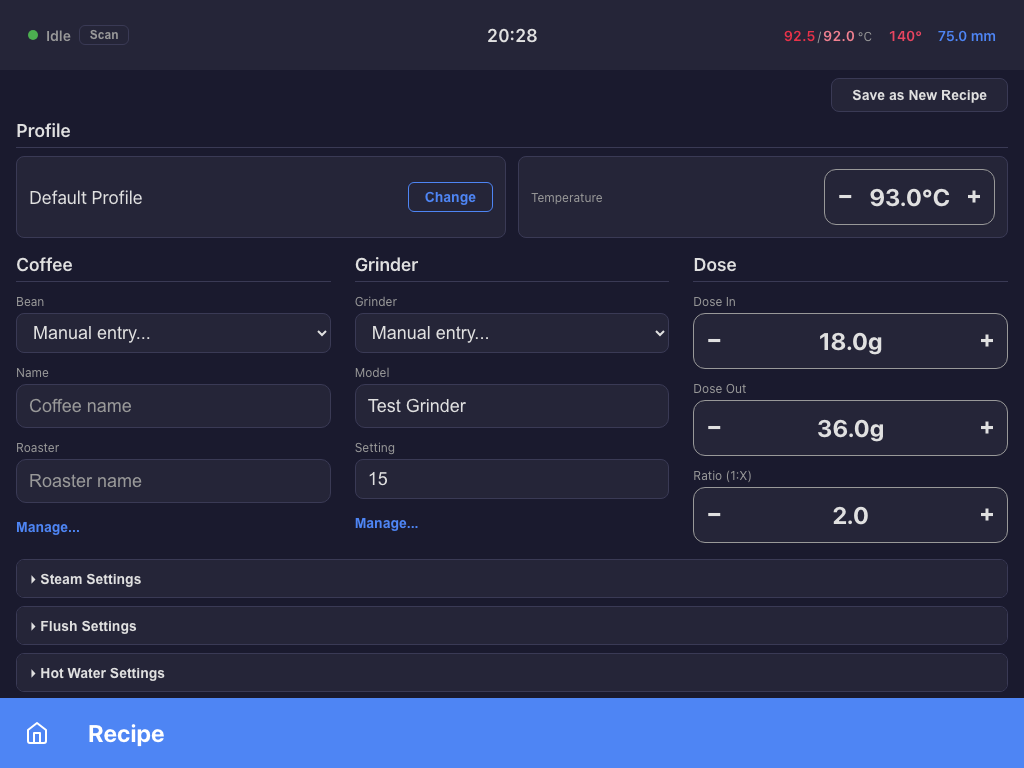
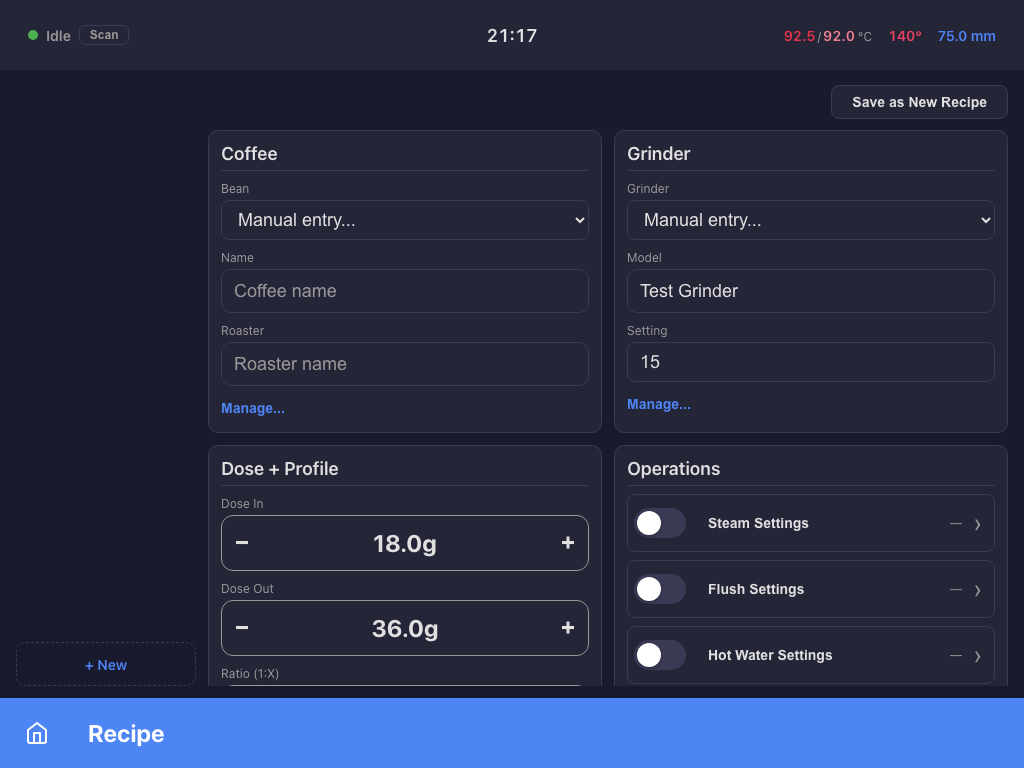
docs(readme): recipe editor landscape redesign
Update the Recipe Editor section and screenshot for the new layout —
left recipe rail + four-quadrant editor, operations editing moved into
per-operation popups. Also corrects a stale "Settings → Preferences"
reference to "Settings → Brewing".

diff --git a/README.md b/README.md
@@ -18,17 +18,17 @@ The home screen shows real-time machine data and quick-access operation buttons.
 
 ### Recipe Editor
 
-Create and manage complete brewing recipes — profile, beans, grinder, dose, and operation settings in one place.
+Create and manage complete brewing recipes — profile, beans, grinder, dose, and operation settings — laid out for landscape tablets: a recipe rail on the left, a four-quadrant editor (Coffee, Grinder, Dose + Profile, Operations) on the right.
 
 ![Recipe Editor](docs/screenshots/recipe-editor.png)
 
 - Set profile, coffee, grinder, dose in/out, and ratio
-- Configure steam, flush, and hot water settings per recipe
-- Save as named recipes for quick access from the home screen
+- Steam, flush, and hot water each toggle on/off from the operations list and open in a focused popup for editing
+- Recipes live in a vertical rail — tap to select, tap the pencil (or double-tap) to rename, **+ New** to create one from the current state
 - Field edits apply live to the running workflow (300 ms debounce); saved recipes only change when you explicitly tap **Save** or **Save as New Recipe**
-- A small dot on the selected recipe pill marks any divergence between the live workflow and the saved recipe
+- A small dot on the selected recipe marks any divergence between the live workflow and the saved recipe
 - From the home screen: tap a recipe to load it, double-tap to open the editor — the Espresso button is the only way to start a shot
-- Optional **power-user fields** — Settings → Preferences toggles "Show grinder RPM" and "Show basket data" surface RPM and basket size/type fields in the recipe editor and the shot review page. Per-grinder RPM range (Settings → Grinders) clamps the RPM input.
+- Optional **power-user fields** — Settings → Brewing toggles "Show grinder RPM" and "Show basket data" surface RPM and basket size/type fields in the recipe editor and the shot review page. Per-grinder RPM range (Settings → Grinders) clamps the RPM input.
 
 ### Profile Management
 